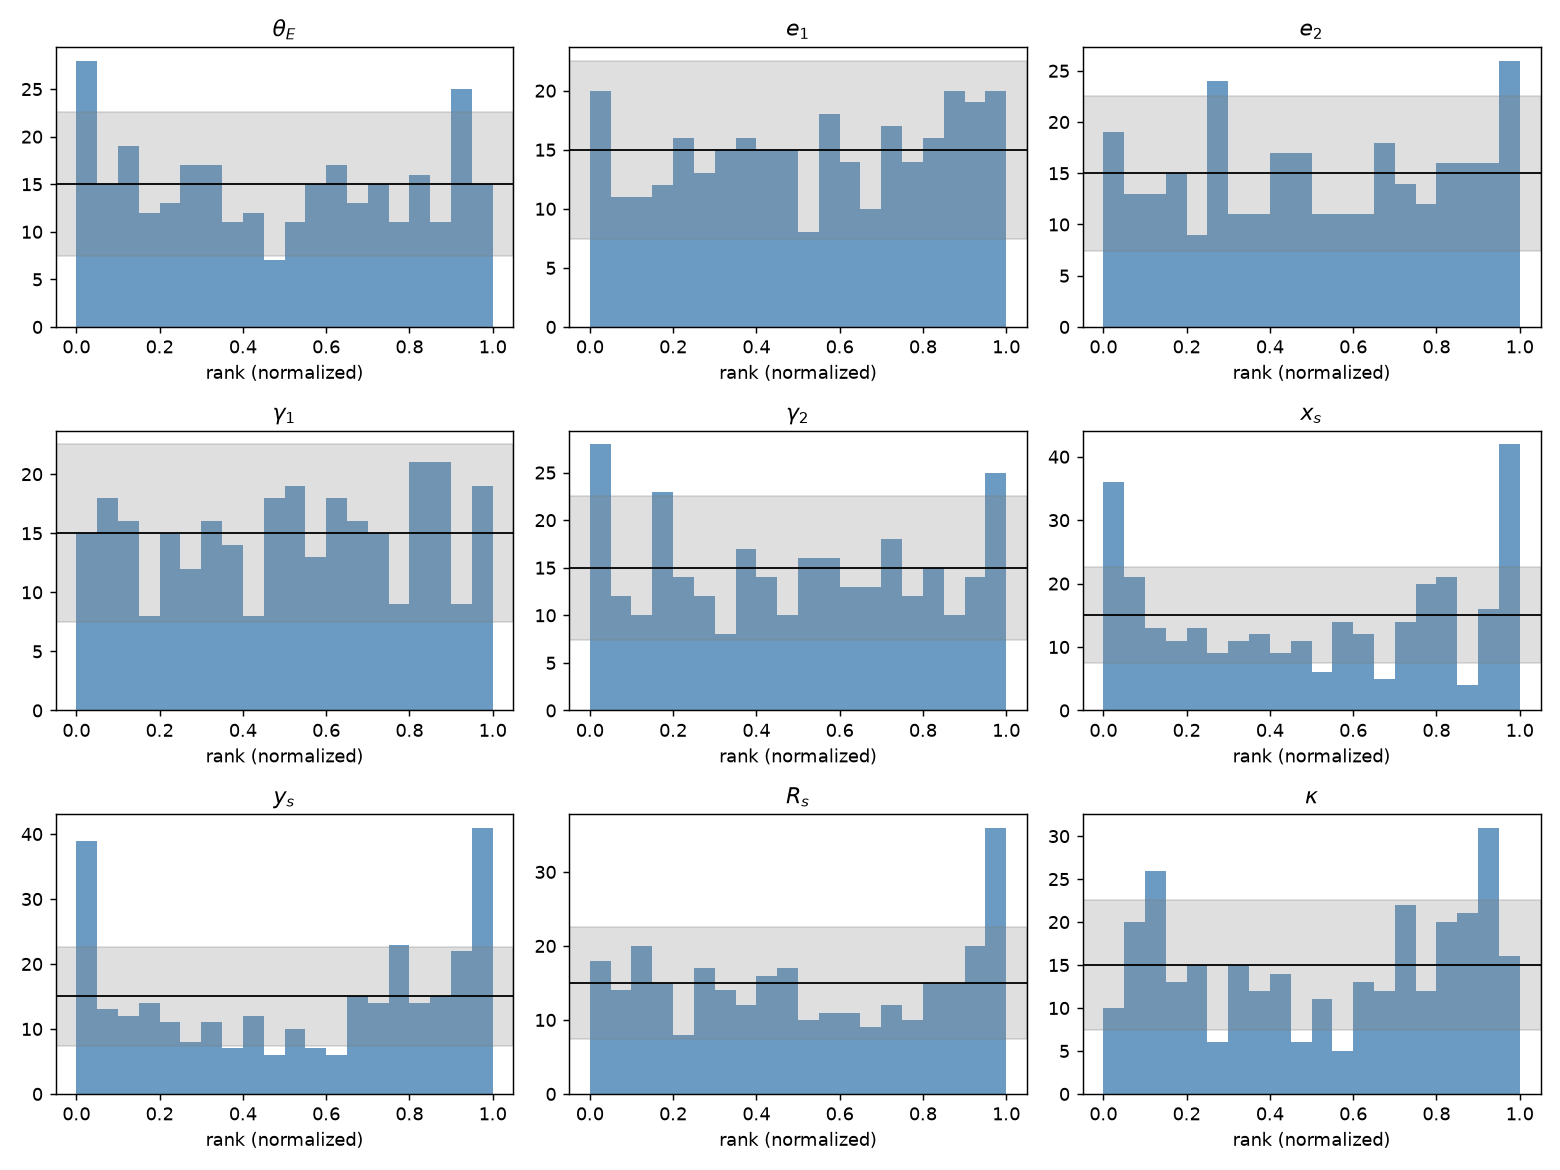
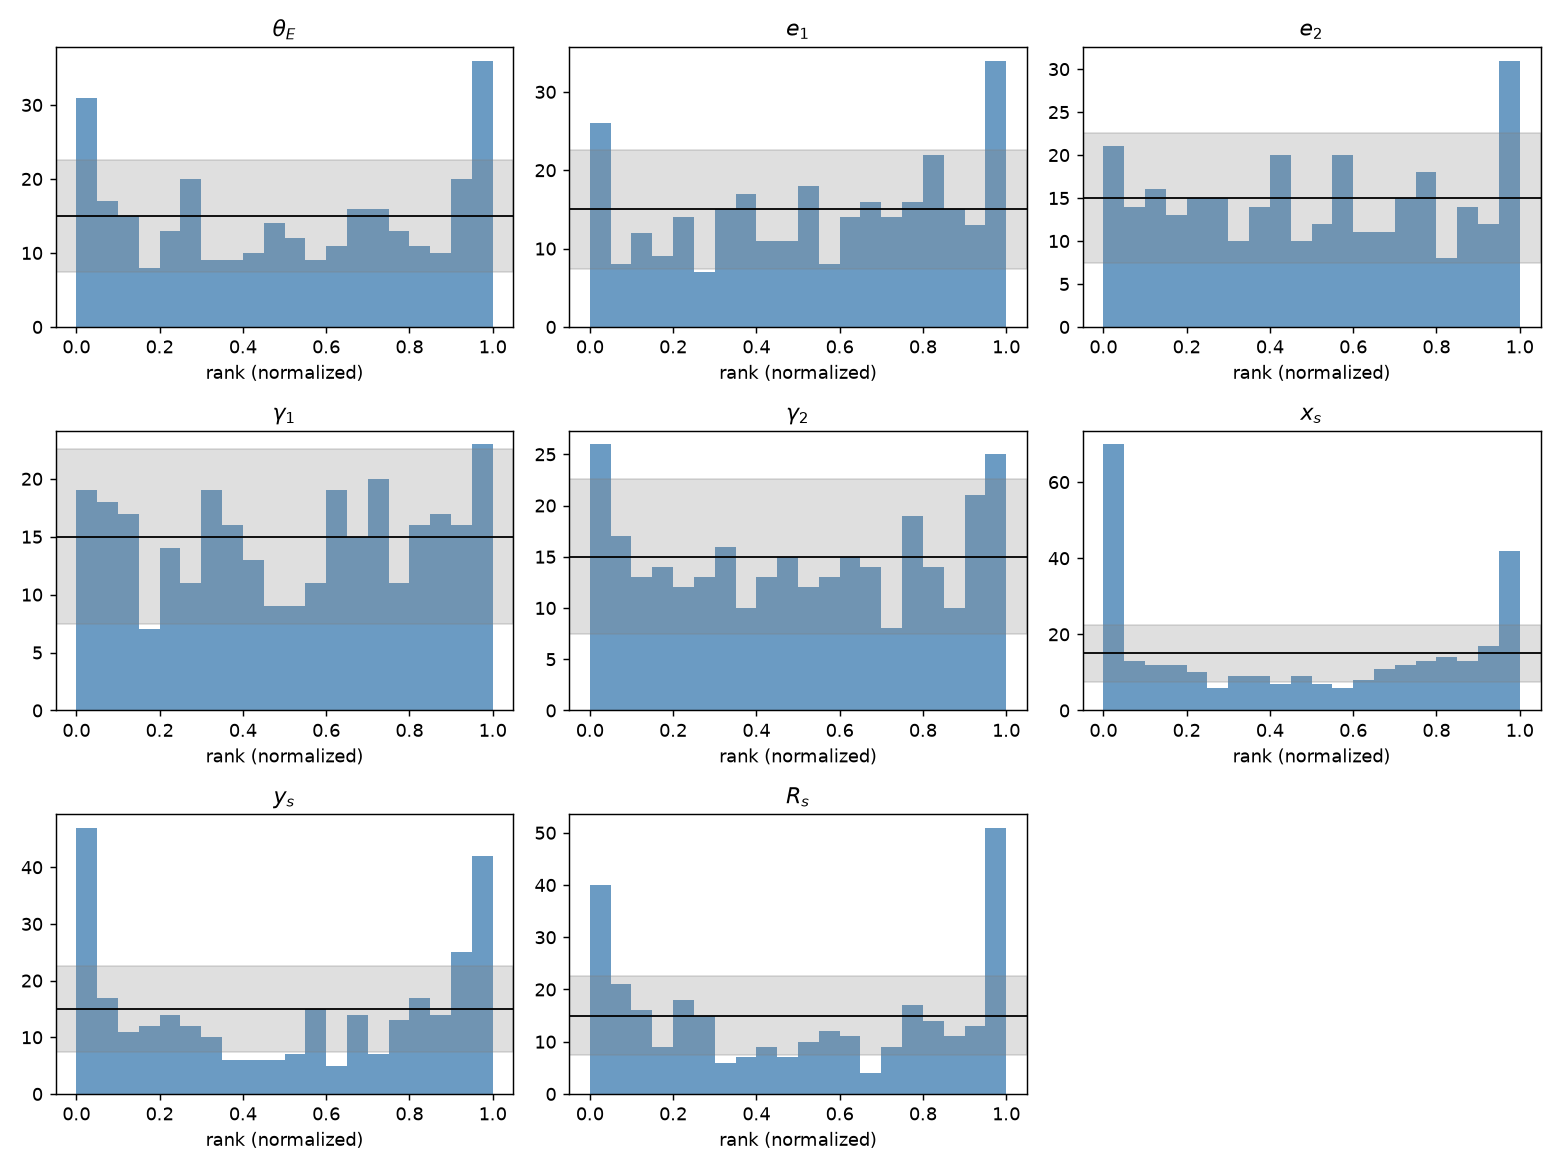
feat: enable GPU (CUDA) acceleration for training
requirements.txt was pinning CPU-only torch/torchvision wheels; switch to
pinned +cu130 builds so the Keras 3 torch backend trains on the GPU
automatically when CUDA is available. Add explicit device logging
(print_device_info) in train.py/main.py so it's obvious at runtime whether
a run is on GPU or CPU, and update stale CPU-only/4GB-VRAM comments in
config.py and README. Also includes regenerated dataset/training/eval
figures from a verified GPU run.

diff --git a/src/models/train.py b/src/models/train.py
@@ -90,10 +90,26 @@ def build_workflow():
     )
 
 
+def print_device_info():
+    """Report which device training will actually run on. The Keras 3 torch
+    backend picks this automatically (GPU if `torch.cuda.is_available()`,
+    else CPU) -- there is nothing else to configure, but it is easy to think
+    a run is using the GPU when it silently isn't (e.g. CPU-only torch wheel
+    installed), so print it explicitly every run."""
+    print(f"Keras backend: {keras.backend.backend()}")
+    if keras.backend.backend() == "torch":
+        import torch
+        if torch.cuda.is_available():
+            print(f"Torch device: cuda ({torch.cuda.get_device_name(0)})")
+        else:
+            print("Torch device: cpu (no CUDA GPU detected -- see "
+                  "requirements.txt if you expected GPU acceleration)")
+
+
 def main():
     keras.utils.set_random_seed(C.SEED)
 
-    print(f"Keras backend: {keras.backend.backend()}")
+    print_device_info()
     print("Loading offline data ...")
     train_data, val_data = load_offline_data()
     print(f"  train images: {train_data['image'].shape}, "

diff --git a/src/config.py b/src/config.py
@@ -176,11 +176,12 @@ LEARNING_RATE = 1e-3
 # training loss is still trending down when it stops (see the loss curve
 # plotted at the end of training).
 
-# Which Keras 3 backend to use. "torch" is the most reliably CPU-friendly
-# option on Windows and is already in requirements.txt. If you install `jax`
-# (CPU build) yourself it is typically a bit faster; nothing else in the
-# project needs to change, just set the environment variable before any
-# keras/bayesflow import happens (src/models/train.py does this for you).
+# Which Keras 3 backend to use. "torch" is already in requirements.txt and
+# needs no extra setup: the Keras 3 torch backend automatically runs on the
+# GPU whenever `torch.cuda.is_available()` is True (see requirements.txt for
+# the CUDA-enabled wheel), and transparently falls back to CPU otherwise --
+# nothing else in the project needs to change either way. src/models/train.py
+# prints which device it picked at the start of training so you can confirm.
 KERAS_BACKEND = "torch"
 
 SEED = 42

diff --git a/main.py b/main.py
@@ -55,13 +55,14 @@ def cmd_evaluate(args):
     import keras
     from src.models.bayesflow_model import LensSummaryNet  # noqa: F401 (registers custom layer for loading)
     import bayesflow as bf
-    from src.models.train import build_workflow
+    from src.models.train import build_workflow, print_device_info
     from src.evaluation.test import run_all
 
     if not os.path.exists(C.MODEL_FILE):
         raise FileNotFoundError(
             f"{C.MODEL_FILE} not found. Run `python main.py train` first."
         )
+    print_device_info()
     print(f"Loading trained approximator from {C.MODEL_FILE} ...")
     workflow = build_workflow()
     workflow.approximator = keras.saving.load_model(C.MODEL_FILE)

diff --git a/src/evaluation/plots.py b/src/evaluation/plots.py
@@ -17,7 +17,7 @@ observed image) -- it only reads arrays and produces figures under figures/.
 """
 import os
 import numpy as np
-import matplotlib.pyplot as plt
+import matplotlib.pyplot as plt  # pyright: ignore[reportMissingModuleSource]
 
 from src import config as C
 

diff --git a/README.md b/README.md
@@ -221,12 +221,16 @@ the file-by-file "what changed and why".
   changing it does, and includes a runnable with-vs-without-kappa comparison. This is
   the recommended place to explore the project and see results. It has been executed
   end to end (on a shrunk dataset) to confirm every cell runs without errors.
-- **Local, CPU/RAM-only setup.** Given the 4GB-VRAM constraint, the project never uses
-  a GPU: the Keras 3 backend is `torch` (CPU build, `requirements.txt` installs it from
-  the CPU wheel index), and the default dataset/network sizes in `config.py` were
-  chosen to train in a reasonable time on a CPU-only laptop. A dedicated `.venv/` was
-  set up inside this folder and all of the above was verified to run in it (dataset
-  generation, training, evaluation, and the notebook).
+- **Runs on CPU or GPU, no code changes needed.** The Keras 3 backend is `torch`;
+  `requirements.txt` installs the CUDA-enabled wheel (cu124) by default, and the torch
+  backend automatically trains on the GPU whenever `torch.cuda.is_available()` is True,
+  falling back to CPU otherwise. `python main.py train` / `python -m src.models.train`
+  print which device was picked at the start of each run. Dataset generation
+  (lenstronomy) is always CPU-bound regardless -- only training and posterior sampling
+  benefit from a GPU. If you don't have an NVIDIA GPU, swap the `--extra-index-url` line
+  in `requirements.txt` for the CPU wheel index instead. A dedicated `.venv/` was set up
+  inside this folder and all of the above was verified to run in it (dataset generation,
+  training, evaluation, and the notebook).
 - The original `data/raw/lens_images.npy` / `lens_params.npy` (from the first,
   1-parameter SIS demo) are left untouched but are no longer used by anything --
   they don't match the current 8/9-parameter model. New datasets go to
